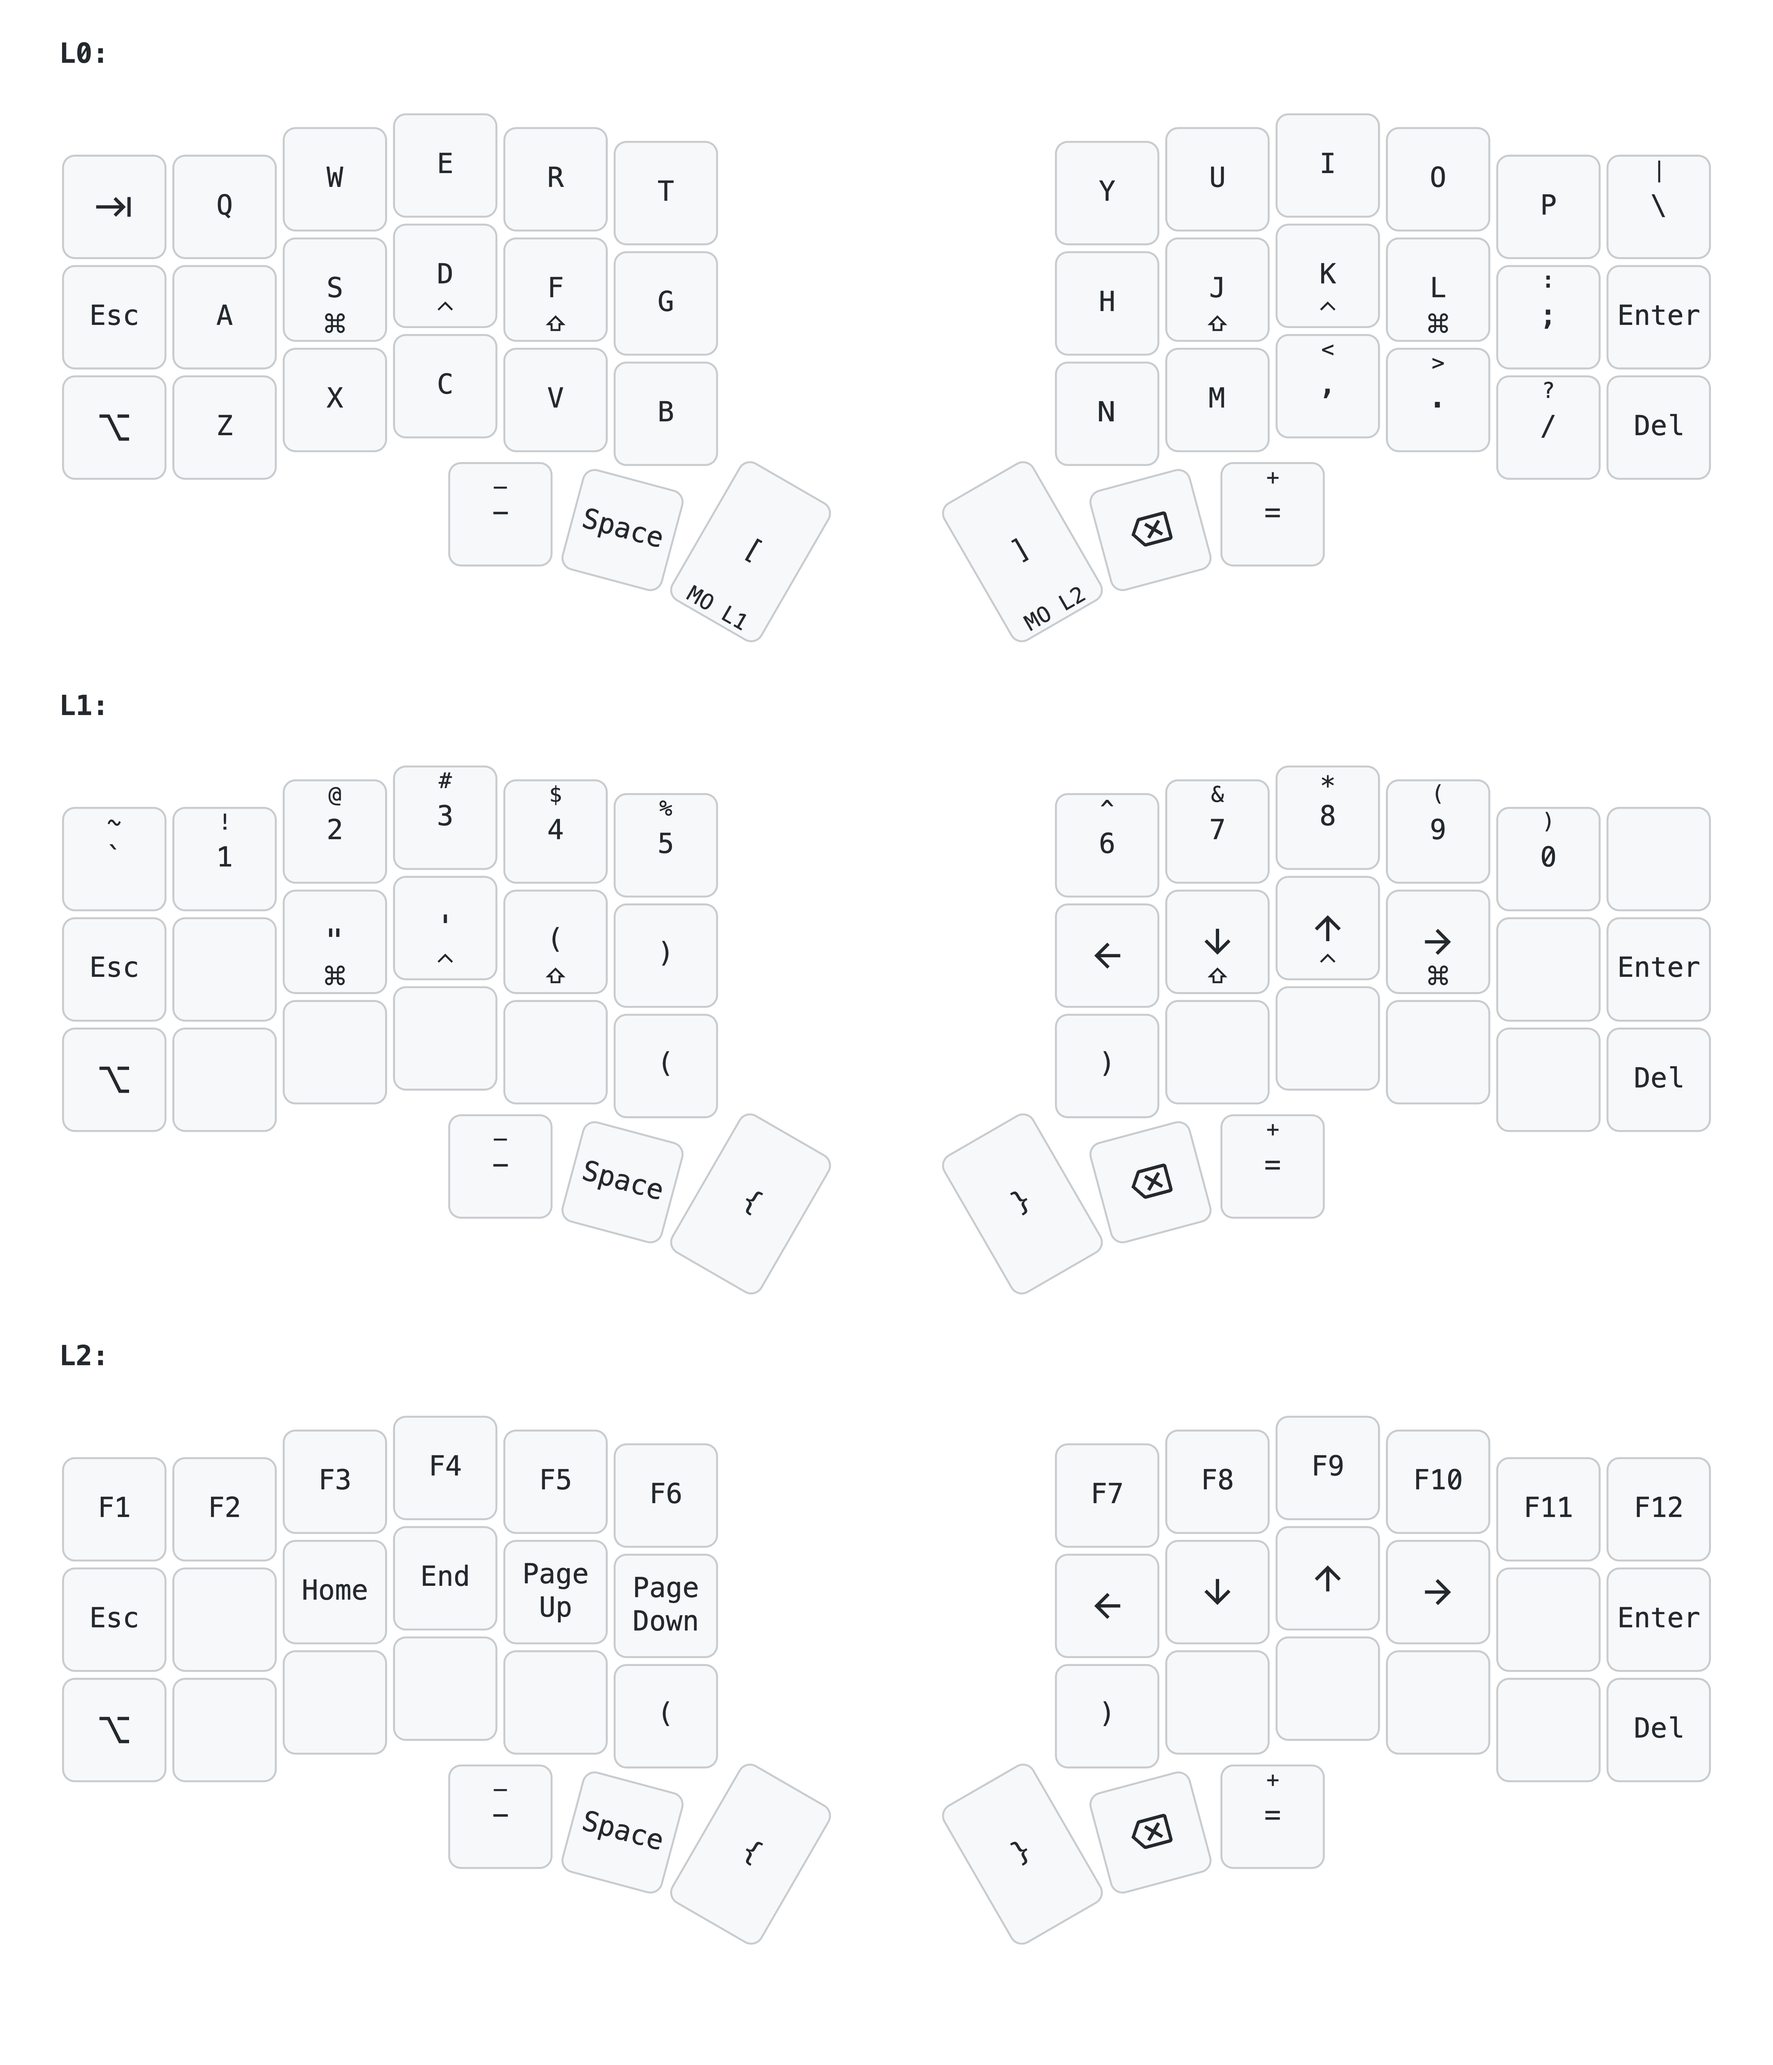
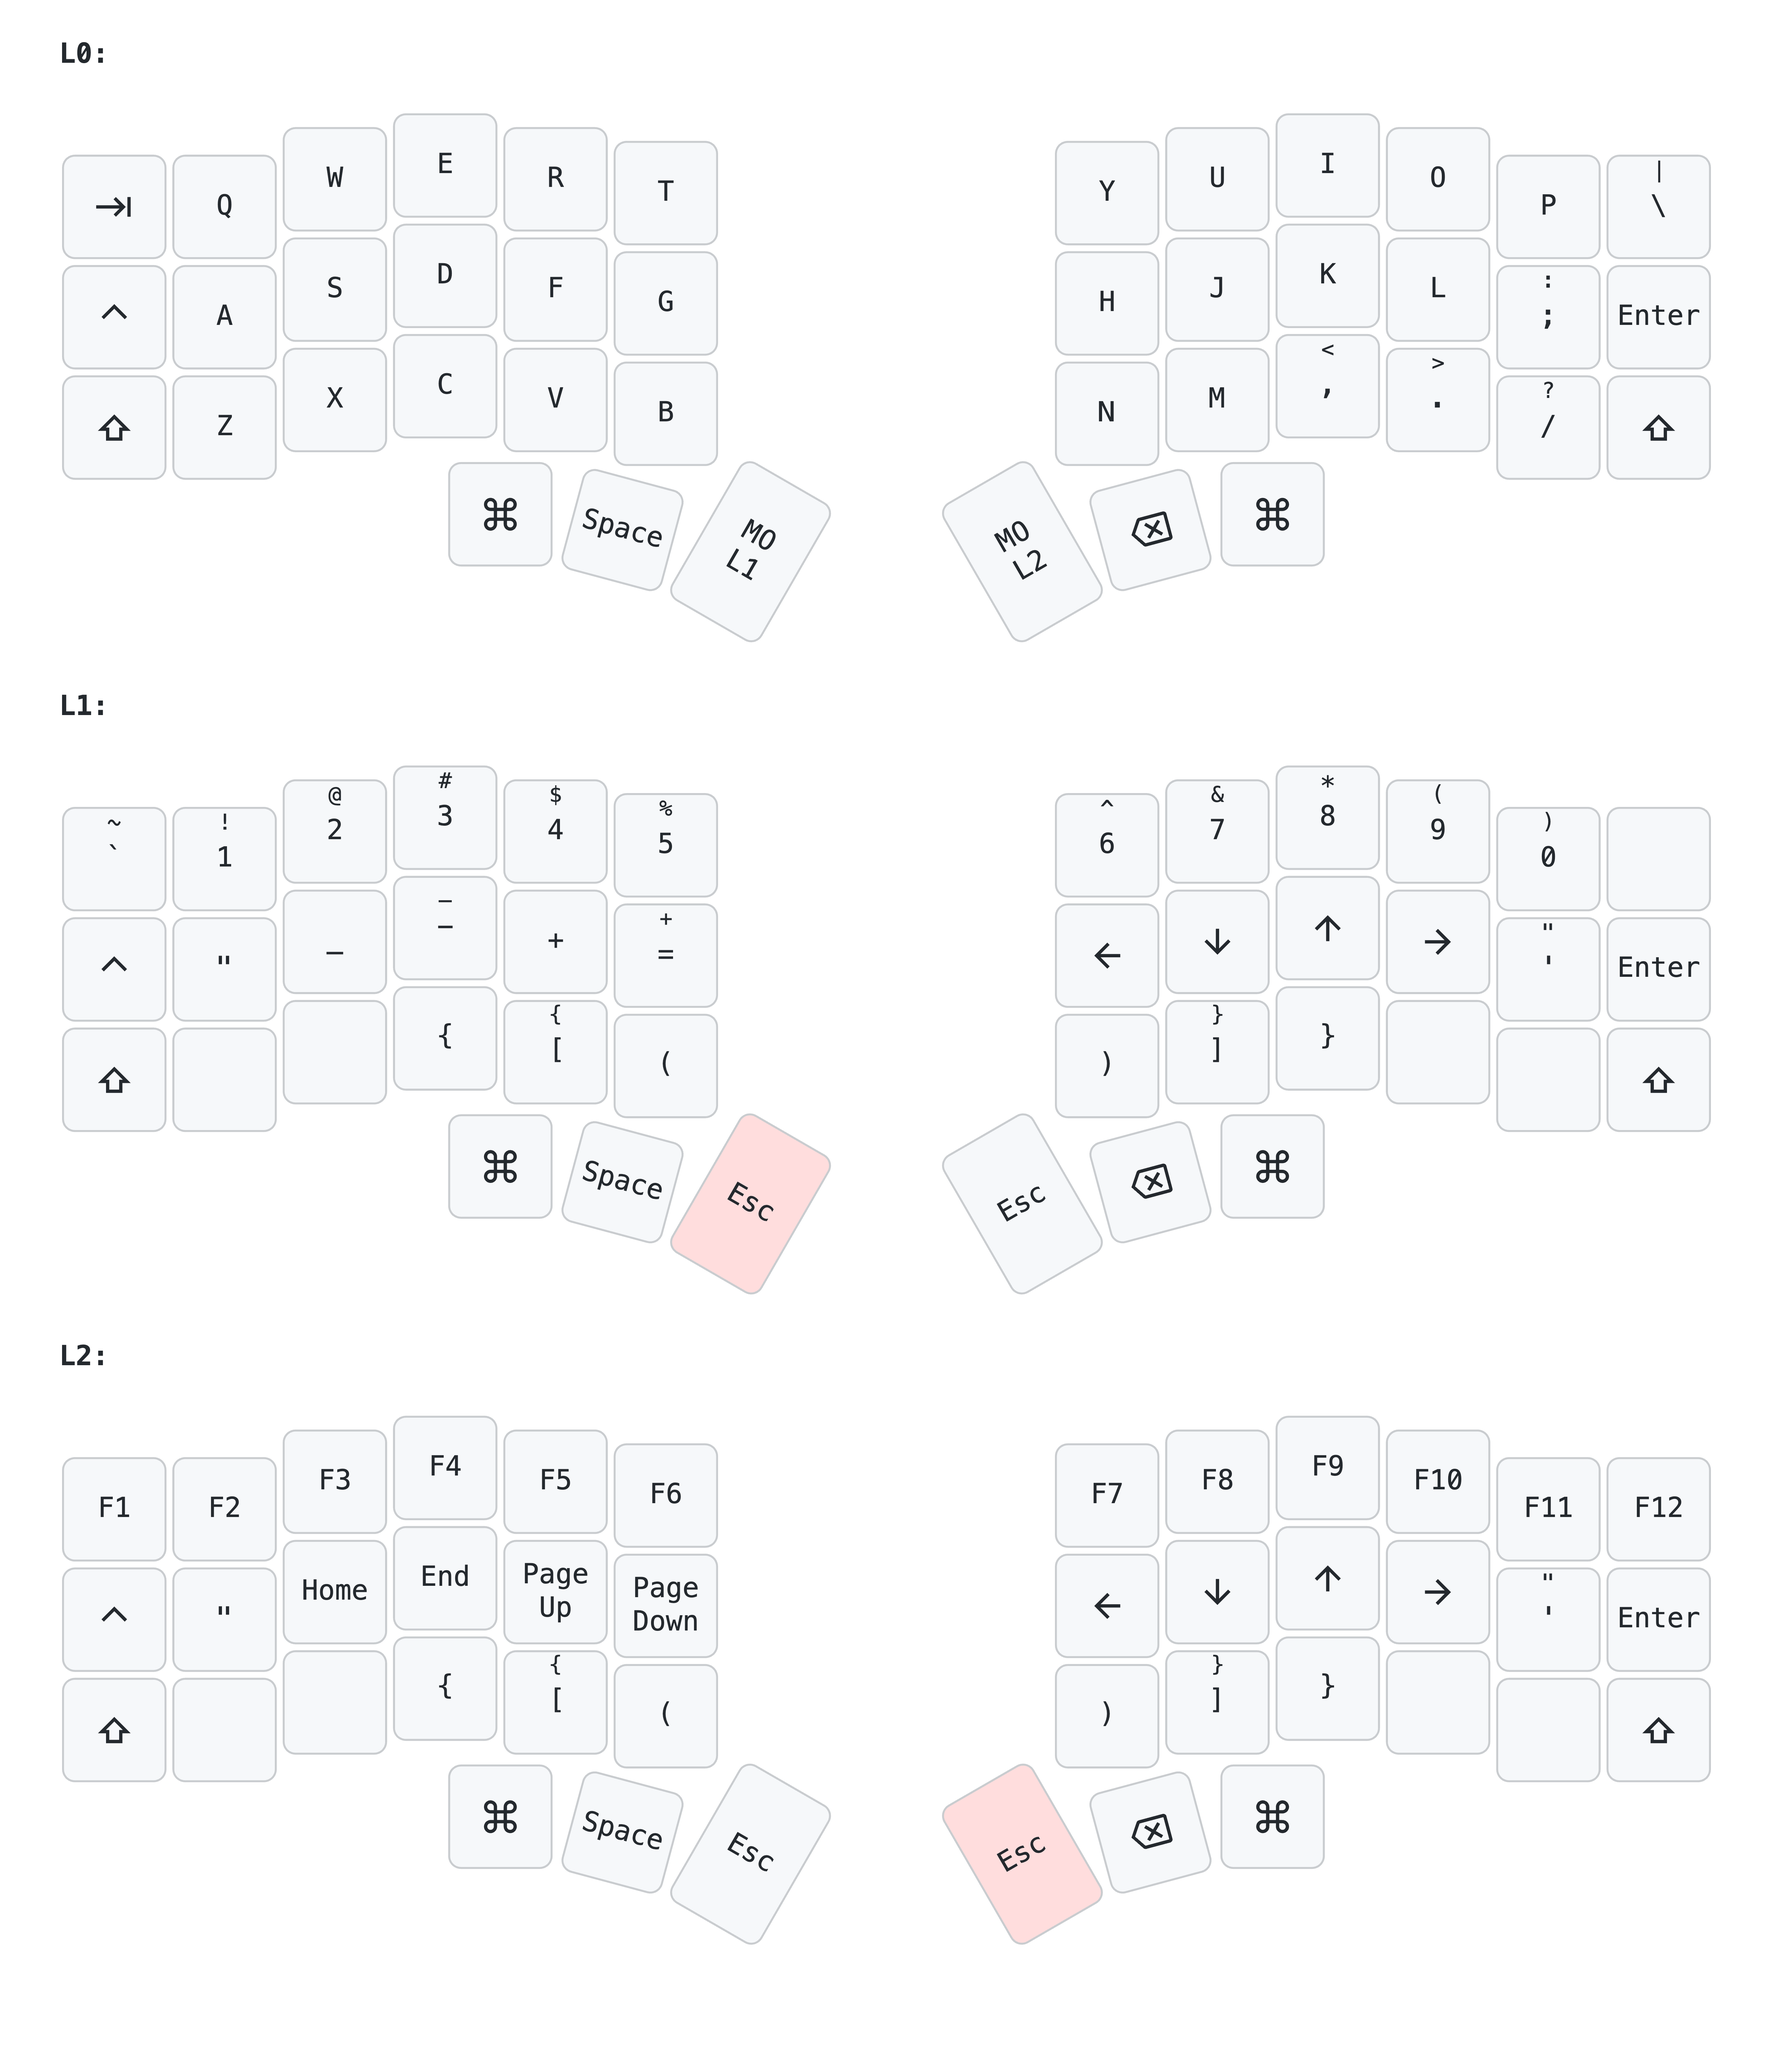
Update pictures

diff --git a/README.md b/README.md
@@ -17,7 +17,7 @@ src="https://github.com/user-attachments/assets/62fb9ab4-f29f-4834-9fdf-3b0d631b
 
 ## Layers
 
-The keymap is based on the standard **QWERTY** layout and [home-row-mods](https://precondition.github.io/home-row-mods), working for macOS. Three layers are been created:
+The keymap is based on the standard **QWERTY** layout, working for macOS. Three layers are been created:
 
 - L0: Alphabet keys (`a`-`z`) and some keys around them (`ctrl`, `cmd`, `enter`, etc).
 - L1: Symbol (`-`, `=`, `,`, `"`, etc), number (`1`-`9`) and navigation (`Up`, `Down`, `Left`, `Right`) keys around the alpha keys.
